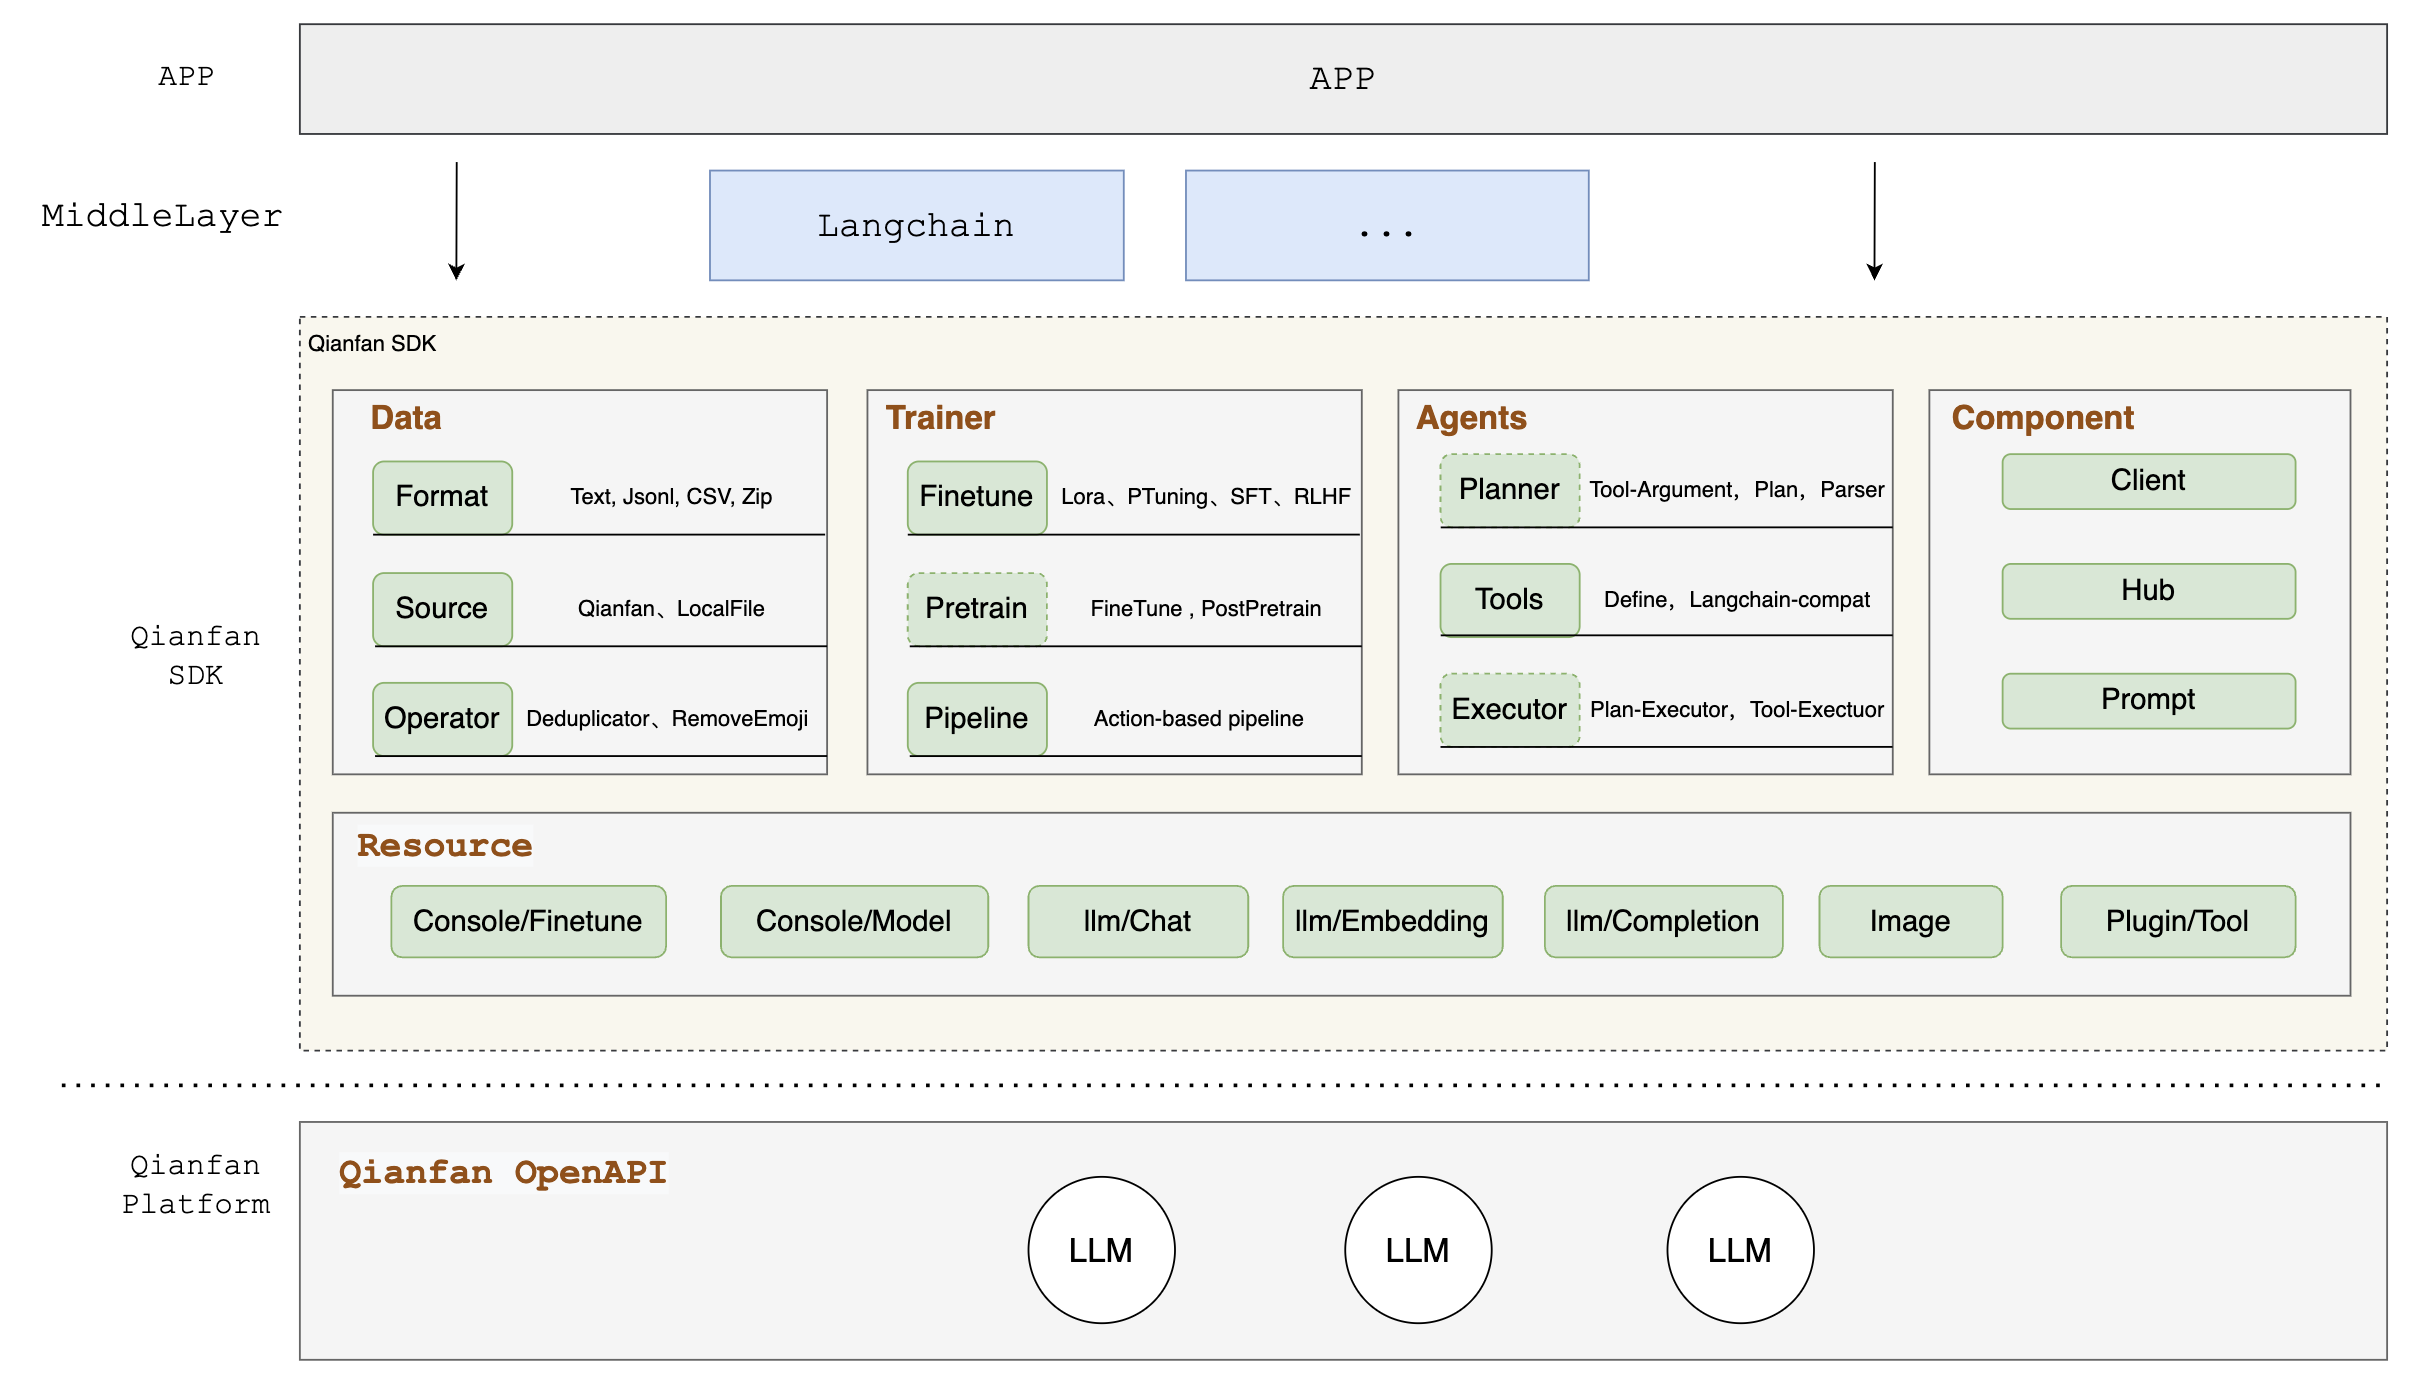
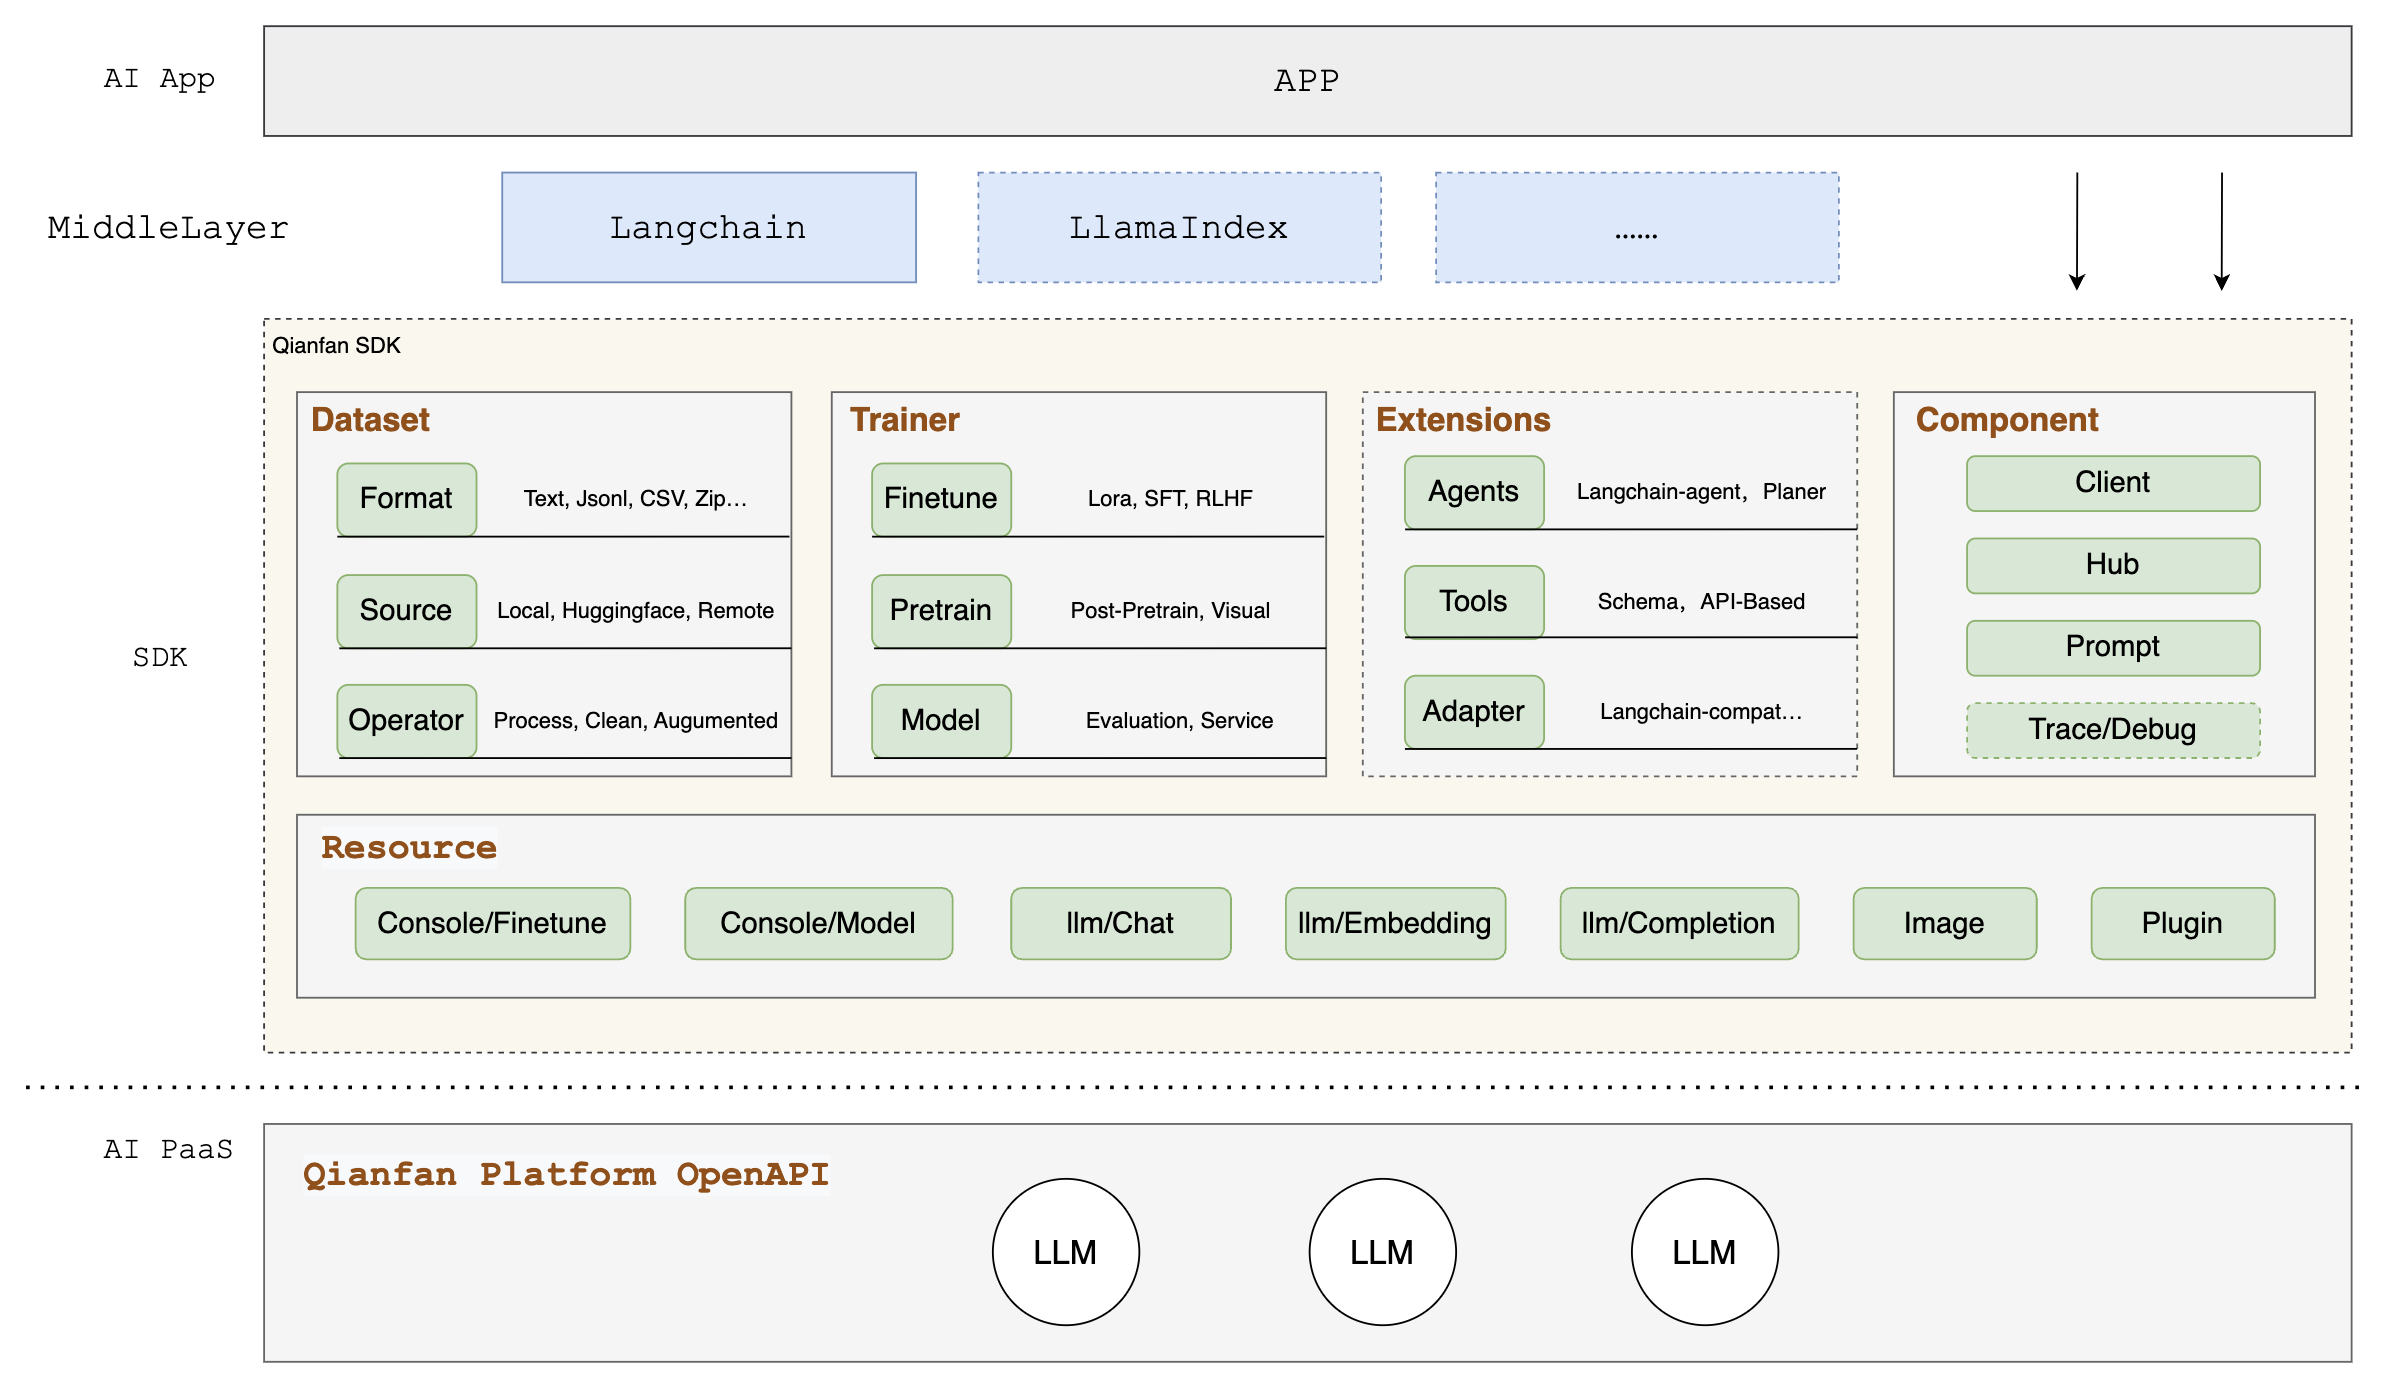
fix: readme docs

diff --git a/README.md b/README.md
@@ -10,12 +10,12 @@
 
 ![framwwork](/docs/imgs/sdk_framework.png)
 
-千帆SDK的整体架构可以分为2大部分，一部分是resource层，即对接封装千帆大模型平台的所有API能力；另一部分是SDK在此基础上结合大模型应用开发所需的能力衍生而来的包括`Dataset`,`Trainer`,`Agent`等易用的组件。
+千帆SDK的整体架构可以分为2大部分，一部分是resource层，即对接封装千帆大模型平台的所有API能力；另一部分是SDK在此基础上结合大模型应用开发所需的能力衍生而来的包括`Dataset`,`Trainer`等易用的模块组件。
 具体来说：
 - Dataset：实现了千帆平台和本地数据集，以及开源数据集的加载、处理以及常见的清洗操作。
 - Trainer：提供了基于千帆平台训练模型的接口，包括模型训练、模型评估、模型发布、服务发布等。
-- Agent：提供了基于千帆平台大模型能力的Agent框架以及Tool。
-- Component：包括Prompt等常见大模型应用开发组件。
+- Extensions：提供了大模型的拓展能力框架，包括了基于千帆的Agent框架以及Tool等能力。
+- Component：包括Prompt，Hub等常见AI应用开发组件。
 
 ## 如何安装
 
@@ -110,21 +110,59 @@ print(resp["result"])
 + Text2Image 文生图
 
 ### LMOps能力
-#### Trainer
-
-千帆 Python SDK 以Pipeline为基础串联整个模型训练的流程，同时允许用户更好的把控训练流程状态 [Trainer 框架](./docs/trainer.md)。
 
 #### Dataset
 
 千帆 Python SDK 集成了一系列本地的数据处理功能，允许用户在本地对来自多个数据源的数据进行增删改查等操作，详见[Dataset 框架](./docs/dataset.md)。
+以下是一个通过加载本地数据集并进行数据处理的例子
+```python
+from qianfan.dataset import Dataset
+# 从本地文件导入
+ds = Dataset.load(data_file="path/to/dataset_file.jsonl")
+
+def filter_func(row: Dict[str, Any]) -> bool:
+  return "sensitive data for example" not in row["col1"]
+
+def map_func(row: Dict[str, Any]) -> Dict[str, Any]:
+  return {
+    "col1": row["col1"].replace("sensitive data for example", ""),
+    "col2": row["col2"]
+  }
+
+print(ds.filter(filter_func).map(map_func).list())
+```
+
+#### Trainer
+
+千帆 Python SDK 以Pipeline为基础串联整个模型训练的流程，同时允许用户更好的把控训练流程状态 [Trainer 框架](./docs/trainer.md)。
+以下是一个快速实现ERNIE-Bot-turbo fine-tuning的例子：
+```python
+from qianfan.dataset import Dataset
+from qianfan.trainer import LLMFinetune
+
+# 加载千帆平台上的数据集，is_download_to_local=False表示不下载数据集到本地，而是直接使用
+ds: Dataset = Dataset.load(qianfan_dataset_id=111, is_download_to_local=False)
+
+# 新建trainer LLMFinetune，最少传入train_type和dataset
+# 注意fine-tune任务需要指定的数据集类型要求为有标注的非排序对话数据集。
+trainer = LLMFinetune(
+    train_type="ERNIE-Bot-turbo-0725",
+    dataset=ds, 
+)
+
+trainer.run()
+
+```
+
+### 扩展与组件
 
 #### Prompt
 
 千帆平台支持对文生文、文生图任务的 Prompt 进行管理，详见[Prompt 管理](./docs/prompt.md)
 
-### Resources
+### API Resources
 
-平台API能力汇总，详见[**平台API能力**](./docs/api_contents.md) and
+平台API能力汇总，详见[**平台API能力**](./docs/api_contents.md)
 
 ### 其他
 - [tokenizer](./docs/utils.md)
